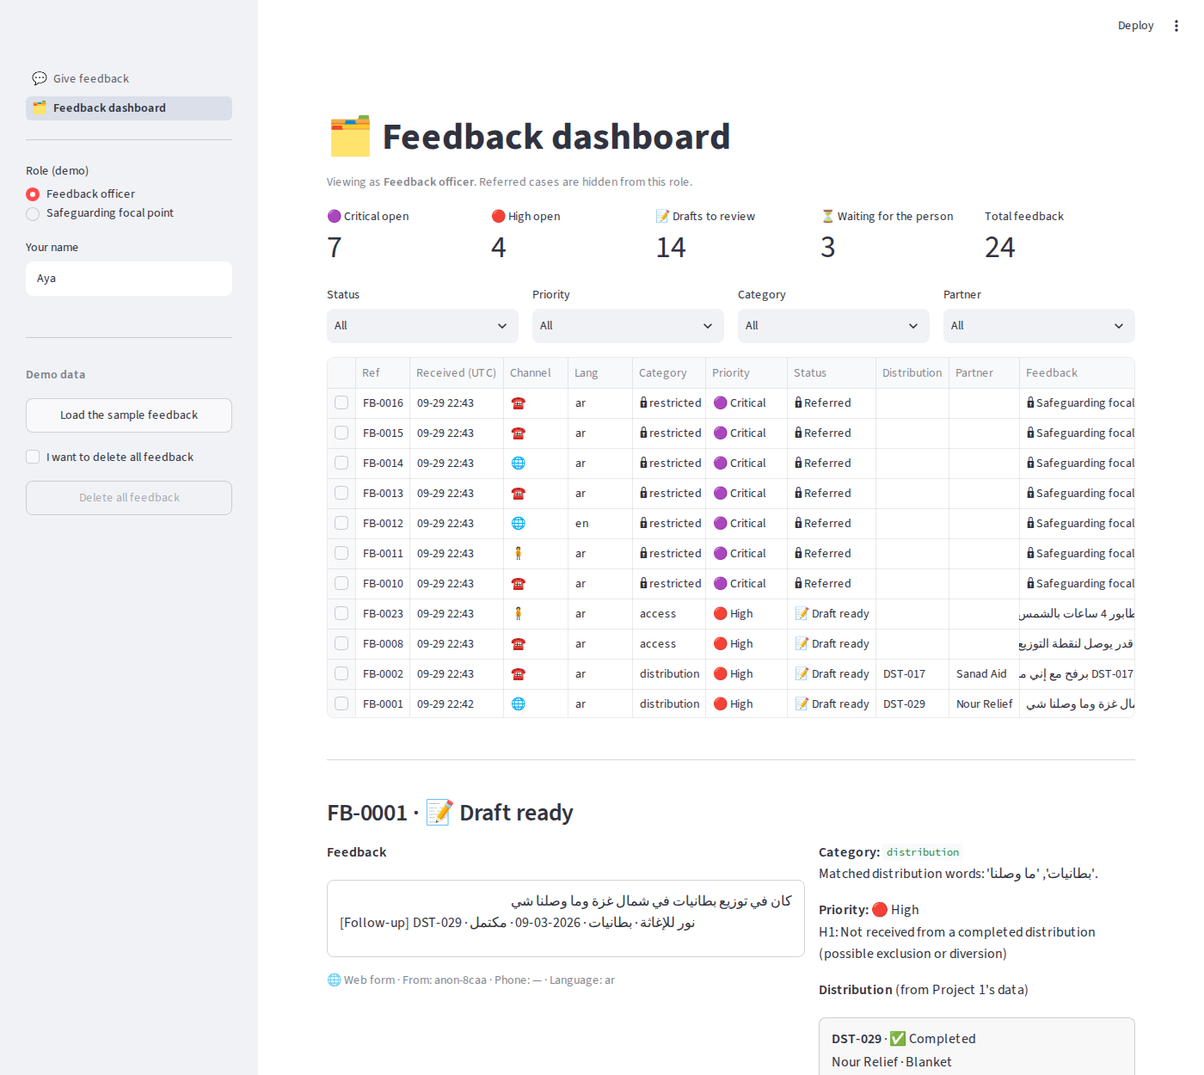
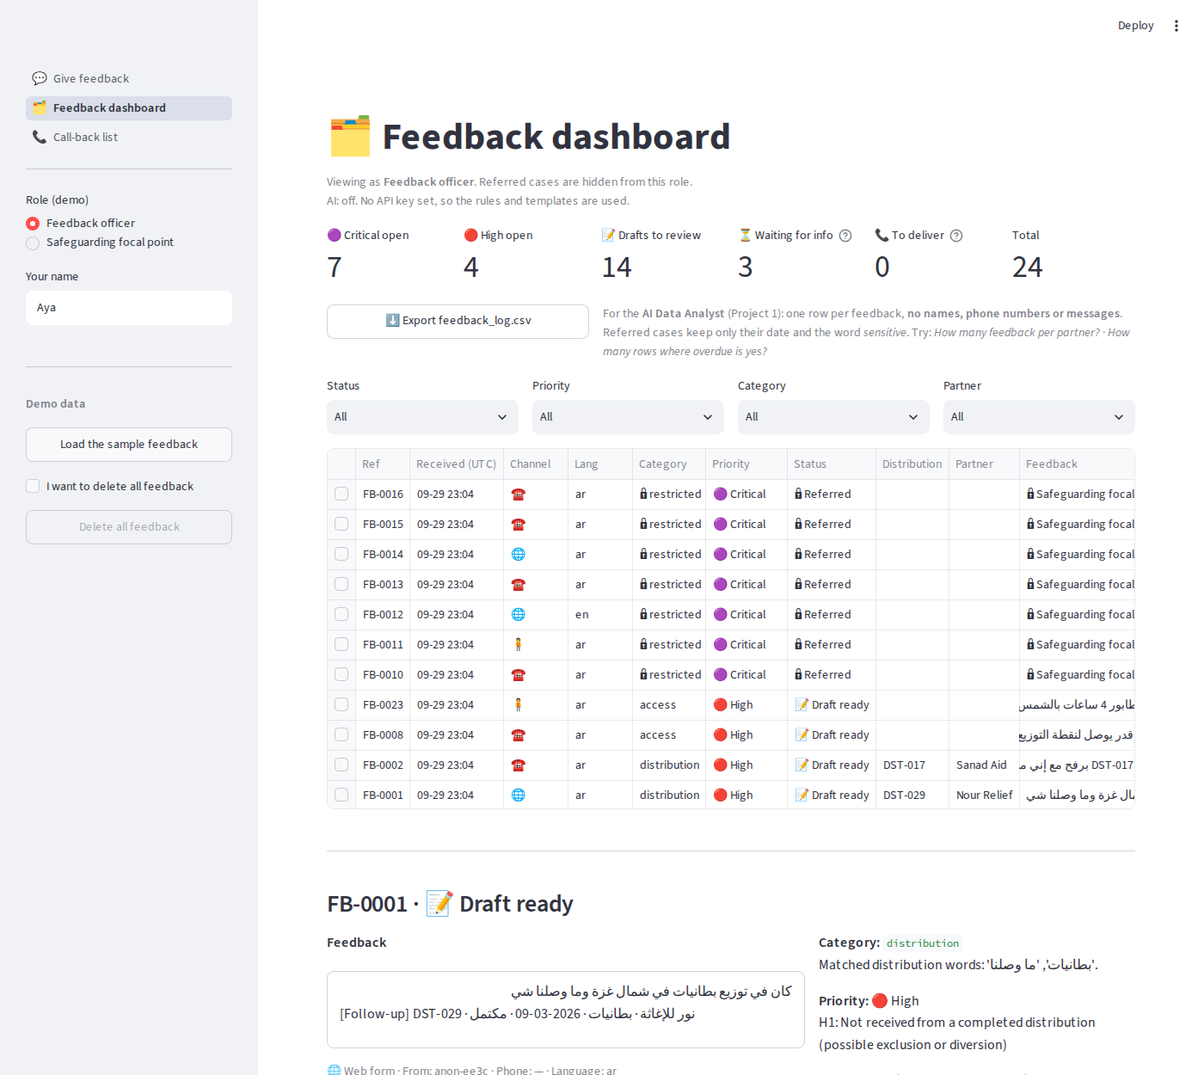
Docs: README, TEST_RESULTS, final screenshots, plan appendix
Claude-Session: https://claude.ai/code/session_01UVm6yuNLML38rM87E8FuEK

diff --git a/views/dashboard.py b/views/dashboard.py
@@ -56,9 +56,9 @@ m = st.columns(6)
 m[0].metric("🟣 Critical open", c["critical"])
 m[1].metric("🔴 High open", c["high"])
 m[2].metric("📝 Drafts to review", c["drafts"])
-m[3].metric("⏳ Waiting for the person", c["waiting"])
-m[4].metric("📞 Replies to deliver", c["to_deliver"], help="Approved, but the person has not heard the answer yet.")
-m[5].metric("Total feedback", c["total"])
+m[3].metric("⏳ Waiting for info", c["waiting"], help="Waiting for the person to answer our question.")
+m[4].metric("📞 To deliver", c["to_deliver"], help="Approved, but the person has not heard the answer yet.")
+m[5].metric("Total", c["total"])
 
 ex1, ex2 = st.columns([1, 2])
 ex1.download_button("⬇ Export feedback_log.csv", data=to_csv_bytes(build_export(conn)),

diff --git a/README.md b/README.md
@@ -1,5 +1,179 @@
-# AI Community Feedback Desk
+# 💬 AI Community Feedback Desk
 
-Work in progress. Continues [AI Data Analyst](https://github.com/Ayatalat0101/ai-data-analyst): community feedback about the same aid distributions, linked to each distribution, with sensitive cases routed to a confidential referral and a human approving every reply.
+**Community feedback about aid distributions, in Arabic and English: every complaint linked to its distribution, every sensitive report sent to a trained person, every reply approved by a human, and delivered.**
+Continues [AI Data Analyst](https://github.com/Ayatalat0101/ai-data-analyst) (Project 1): the same distributions, the same data file, and an anonymised export that Project 1 analyses.
 
-Design: [PROJECT_PLAN.md](PROJECT_PLAN.md) · Test messages: [data/sample_feedback.csv](data/sample_feedback.csv)
+![Python](https://img.shields.io/badge/Python-3.11%2B-3776AB?logo=python&logoColor=white)
+![Streamlit](https://img.shields.io/badge/Streamlit-app-FF4B4B?logo=streamlit&logoColor=white)
+![SQLite](https://img.shields.io/badge/SQLite-audit%20log-003B57?logo=sqlite&logoColor=white)
+![Gemini](https://img.shields.io/badge/LLM-Gemini%20%E2%86%92%20Groq%20%E2%86%92%20rules-2a78d6)
+![Tests](https://img.shields.io/badge/tests-302%20passing-2ea44f)
+
+> **Live demo:** _added after deployment (see [Deploy](#deploy-on-streamlit-community-cloud))._
+> Project B of the *AI Systems Building Challenge* · [خطة المشروع بالعربي](PROJECT_PLAN_AR.md)
+
+![Question with the real matching distributions as options](screenshots/01_question_with_options.png)
+
+---
+
+## The problem
+
+After aid distributions in Gaza, people call a hotline or stop a volunteer to say *"I didn't receive"*, *"the flour was spoiled"*, *"a staff member asked me for money"*. The feedback ends up in a WhatsApp group or a notebook. Nobody checks which distribution it concerns, urgent cases wait, and a report of sexual exploitation can be read by anyone on the team.
+
+**Example:** *"ما استلمت طرد الغذاء بتوزيع DST-017 برفح مع إني مسجل بالكشف"*. DST-017 is a **completed** Sanad Aid distribution, so this family may have been left off the list. That should be High priority, checked with Sanad Aid, and answered.
+
+*All organisations, people, phone numbers and messages in this project are fictional.*
+
+## How it continues Project 1
+
+```
+Project 1: aid_distributions.csv ──► AI Data Analyst ──► "households reached per partner"
+                   │
+                   ▼  lookup tool (status, partner, place, item)
+Project 2: feedback ──► AI Community Feedback Desk ──► feedback_log.csv ──► AI Data Analyst ──► "complaints per partner"
+```
+
+1. **The agent's tool reads Project 1's file.** "Blankets in North Gaza" → the 5 real matching distributions, offered as buttons. DST-099 → "we could not find it, please check the number". A cancelled distribution gets a reply that says so.
+2. **The export goes back into Project 1.** `feedback_log.csv` has one row per feedback and no personal data. The AI Data Analyst answers *"How many feedback per partner?"*, *"How many rows where overdue is yes?"*, *"count by delivered_via"*.
+
+![Project 1 analysing the feedback log exported by Project 2](screenshots/07_project1_analyses_feedback.png)
+
+## What it does
+
+| | |
+|---|---|
+| 💬 **Receives feedback** | Web form, hotline or in person (operators enter it for the person). Arabic, Gaza dialect or English. Name optional. |
+| 🔒 **Refers sensitive reports first** | Sexual exploitation (PSEA), bribes, threats, injuries, self-harm, requests for others' data → **Critical**, no AI draft, visible **only to the safeguarding focal point**, never sent to an AI service. |
+| 🗂 **Classifies** | distribution · information · conduct · access · appreciation, with the reason. Gemini, rules as fallback. |
+| 🔎 **Links the distribution** | A lookup tool over `aid_distributions.csv`. It never invents one: one match → linked; several → one question with options; none → asks. |
+| 🚦 **Prioritises by a written policy** | S1 Critical · H1 not received from a *completed* distribution · H2 access barrier for older people, people with disabilities, pregnant women, children · M1–M3 · L1. The AI never sets priority. |
+| 📝 **Drafts the reply** | In the language of the feedback, built on the distribution's real status. Checked: no promise of aid, no ID request, no other distribution number, right language. |
+| 👤 **Human approval** | Approve · edit · reject · refer · close, with an audit log. |
+| 📞 **Delivers the answer** | Call-back list for hotline operators, "Track my feedback" page, confidential contact for referred cases. `delivered` is a status of its own. |
+| 📤 **Exports for Project 1** | Anonymised `feedback_log.csv` with distribution status, days open, overdue and whether the reply was delivered. |
+
+## Who decides what
+
+| Decision | Made by | Why |
+|---|---|---|
+| Confidential referral | **Code first**; the LLM may only *add* one | A safeguarding decision cannot depend on a model that can be tricked, rate-limited or down |
+| Category | **Gemini** (structured output), rules as fallback | Meaning and dialect ("الكرتونة وصلت مبلولة") |
+| Which distribution | **Code: lookup tool** | A fact, not a guess |
+| Priority | **Code: written policy** | Must be explainable and testable |
+| Reply wording | **Gemini**, from approved content + real facts | Natural, respectful, no invented commitments |
+| Who can read a sensitive case | **Code: role check** in the agent | Confidentiality is a rule, not a screen setting |
+| The reply sent | **A person** | Accountability to affected people |
+
+```mermaid
+flowchart LR
+    F[Feedback<br/>web · hotline · in person] --> G{Safeguarding<br/>guardrail}
+    G -- sensitive --> R[Confidential referral<br/>Critical · restricted · no AI]
+    G -- safe --> C[Classify<br/>Gemini → Groq → rules]
+    C --> L[Lookup tool<br/>aid_distributions.csv]
+    L --> P[Priority<br/>written policy]
+    P --> M{Distribution clear?}
+    M -- no --> Q[One question + options]
+    Q --> L
+    M -- yes --> D[Draft · check_draft]
+    D --> H[Human review]
+    R --> FP[Focal point]
+    H --> DL[Delivered<br/>call · in person · online]
+    FP --> DL
+    DL --> X[feedback_log.csv → Project 1]
+```
+
+## Screenshots
+
+| Officer view: sensitive cases locked | Focal point view: the referral |
+|---|---|
+| ![](screenshots/02_officer_queue_restricted.png) | ![](screenshots/03_focal_point_view.png) |
+| **Draft with the distribution card from Project 1** | **Approved reply + audit log** |
+| ![](screenshots/04_draft_with_distribution.png) | ![](screenshots/05_approved_audit_log.png) |
+| **Call-back list: closing the loop** | **The person reads the reply** |
+| ![](screenshots/08_callback_list.png) | ![](screenshots/09_track_my_feedback.png) |
+
+## Results
+
+**302 automated tests**, all 15 acceptance tests from the plan, 11 defects found and fixed (plus one in Project 1). Details: [TEST_RESULTS.md](TEST_RESULTS.md).
+
+| | Rules, 23 samples | Rules, 14 **held-out** messages | Gemini |
+|---|---|---|---|
+| Category correct | 23/23 | 8/14 | run `python benchmark.py` |
+| Action correct | 23/23 | 11/14 | |
+| New sensitive wordings referred | — | 0/3 | |
+| Drafts passing the safety check | 13/13 | 13/13 | |
+
+The rules were written while looking at the 23 samples, so that score flatters them. The **holdout** was never used for tuning: it shows keyword rules miss new wordings, including three sensitive reports. That is the case for letting the LLM add referrals, and the number to watch when Gemini runs.
+
+## Run it locally
+
+Python 3.11+.
+
+```bash
+git clone https://github.com/Ayatalat0101/ai-community-feedback-desk.git
+cd ai-community-feedback-desk
+python -m venv .venv
+source .venv/Scripts/activate      # Windows Git Bash  (PowerShell: .venv\Scripts\activate · macOS/Linux: source .venv/bin/activate)
+pip install -r requirements.txt
+python -m pytest -q                # 302 passed
+streamlit run app.py
+```
+
+Works **without an API key** (rules + templates). To turn on Gemini:
+
+```bash
+python setup_key.py          # paste the key from aistudio.google.com/apikey
+python -m feedback.llm       # RESULT: OK ✅, or the exact reason the key was not found
+python benchmark.py          # fills the Gemini columns in BENCHMARK.md
+```
+
+Try it: **Give feedback** → *كان في توزيع بطانيات في شمال غزة وما وصلنا شي* and pick a distribution. **Feedback dashboard** → *Load the sample feedback*, switch the role in the sidebar. **Call-back list** → deliver a reply. **Export feedback_log.csv** → upload it to the [AI Data Analyst](https://github.com/Ayatalat0101/ai-data-analyst).
+
+## Deploy on Streamlit Community Cloud
+
+1. Push to GitHub.
+2. [share.streamlit.io](https://share.streamlit.io) → **Create app** → `Ayatalat0101/ai-community-feedback-desk`, branch `main`, file `app.py`.
+3. **Advanced settings → Secrets:** `GEMINI_API_KEY = "your-key"` (never commit it).
+4. Deploy and put the link in the *Live demo* line above.
+
+The public demo limits AI use to 20 messages per browser session. Data lives in SQLite on the app server and resets when the app restarts. The role switch in the sidebar is for the demo; a real deployment needs staff login.
+
+## Project structure
+
+```
+app.py                     entry point: three pages
+ui.py                      shared UI helpers (display only)
+views/give_feedback.py     give feedback + track my feedback
+views/dashboard.py         queue, review, roles, export
+views/callbacks.py         call-back list (delivering replies)
+feedback/models.py         contracts and fixed vocabularies
+feedback/store.py          SQLite + audit log + in-place upgrades
+feedback/text.py           Arabic normalisation, language detection
+feedback/guardrail.py      safeguarding referral, before any AI
+feedback/policy.py         written priority policy
+feedback/distributions.py  the agent's tool over Project 1's data
+feedback/classifier.py     rule classifier (fallback)
+feedback/drafter.py        status-aware templates + check_draft
+feedback/agent.py          the agent loop and staff actions
+feedback/llm.py            Gemini / Groq chain
+feedback/customer_view.py  what a person may see
+feedback/export.py         anonymised feedback_log.csv
+feedback/config.py         where the API key comes from
+setup_key.py · benchmark.py
+data/aid_distributions.csv   Project 1's data (unchanged)
+data/sample_feedback.csv     25 test messages with expected results
+data/holdout_feedback.csv    14 messages kept for honest evaluation
+tests/                       302 tests
+```
+
+## Limits
+
+- The guardrail is a list of patterns. It misses wordings it has never seen (0/3 on the holdout); the LLM flag is the second layer, and a trained person reviews every referral.
+- The vulnerability rule (H2) recognises words like "كبيرة بالسن" or "wheelchair", not ages written as numbers ("عمرها 80 سنة").
+- Replies are delivered by call-back, in person or on the Track page; there is no SMS gateway.
+- Demo only: no staff login, and SQLite on a free server. A real deployment needs authentication, a hosted database and a data-protection review.
+
+## Author
+
+**Aya Talat Samra** · [GitHub](https://github.com/Ayatalat0101) · MIT licence
+Plan written before code: [PROJECT_PLAN.md](PROJECT_PLAN.md) · [بالعربي](PROJECT_PLAN_AR.md)

diff --git a/TEST_RESULTS.md b/TEST_RESULTS.md
@@ -1,0 +1,84 @@
+# Test Results — AI Community Feedback Desk
+
+Expected behaviour was written in `PROJECT_PLAN.md §10` **before** coding, and every message in `data/sample_feedback.csv` carries its expected category, priority, action and distribution.
+Actual behaviour below was recorded from real runs of the agent (rules + templates, no API key) on 2026-09-30.
+
+**Summary:** 15 / 15 planned tests pass · **302 automated tests pass** (`python -m pytest -q`, about 4 seconds) · 11 defects found while building, all fixed and covered by a test · 1 defect found and fixed **in Project 1**.
+
+## 1. Planned acceptance tests (T1–T15)
+
+| ID | Input | Expected | Actual | Result |
+|---|---|---|---|---|
+| T1 | F01 "ما استلمت طرد الغذاء بتوزيع DST-017 برفح…" | DST-017 Completed · High (H1) · draft mentions checking the list with Sanad Aid | DST-017 · High · "H1: Not received from a completed distribution" · "…طلبنا من مؤسسة سند مراجعة كشف هذا التوزيع…" | ✅ |
+| T2 | F02 "كان في توزيع بطانيات في شمال غزة وما وصلنا شي" | ask, with the matching distributions as options | "يوجد 5 توزيعات مطابقة. أيّها تقصد؟" + DST-019, DST-029, DST-053, DST-055, DST-060 as buttons | ✅ |
+| T3 | T2, then the person picks DST-029 | same ticket, linked, draft | FB-0002 stays FB-0002 · DST-029 · High (H1: completed + not received) · draft ready | ✅ |
+| T4 | F05 DST-001 (Cancelled) | Medium (M1) · says cancelled, no promise | M1 · "Distribution DST-001 (Winter Kit, Khan Younis, planned for 2026-01-06) was cancelled, so it did not take place…" | ✅ |
+| T5 | F19 "ما استلمت من توزيع DST-099" | not found → ask to check | "لم نجد التوزيع DST-099. تأكد من الرقم…" · a corrected answer (DST-017, or place + item) continues the ticket | ✅ |
+| T6 | F09 bribe request | referred · Critical · no draft · restricted | referred · Critical · restricted · "Fraud or bribery (money or favours asked for aid)" · no draft | ✅ |
+| T7 | F10 / F11 PSEA (Arabic + English) | referred before any LLM call · hidden from officers | referred · "Possible sexual exploitation or abuse (PSEA)" · the fake LLM received 0 prompts · the officer sees only "🔒 Safeguarding focal point only"; officer actions raise an error | ✅ |
+| T8 | F13 neighbour's phone | referred · no data revealed | referred · "Asks for another person's personal data" | ✅ |
+| T9 | F07 wheelchair · F24 pregnancy | High by rule H2 | both High · "H2: Access barrier for an older person, a person with a disability, a pregnant woman or a child" | ✅ |
+| T10 | F04 / F20 information | Low · draft uses the pending distribution | F04 → DST-048 "التوزيع القادم المخطط لـطرد غذائي في دير البلح هو DST-048…" · F20 → DST-024 "…has not taken place yet" | ✅ |
+| T11 | blank / "hi" | no ticket · helpful message | no ticket · "Please describe what happened in a sentence or two. / اكتب ما حدث بجملة أو جملتين." | ✅ |
+| T12 | two submissions + restart | distinct references · persisted | FB-0001, FB-0002 · still there after reopening the database file · an older database is upgraded in place | ✅ |
+| T13 | approve / reject | approved · reason in audit log | `approved` · `needs_rework` with event detail "Mention the replacement process"; an empty reason is refused | ✅ |
+| T14 | export | no name, phone or message; sensitive rows = date + category; loads in Project 1 | 8 export tests pass · Project 1's AI Data Analyst loads `feedback_log.csv` and answers "How many feedback per partner?" (Sanad Aid 4, Nour Relief 4, Amal Foundation 1) | ✅ |
+| T15 | LLM unavailable | rules + templates still work | fake backend raising 503: category, distribution, priority and draft from rules; planner "rules (fallback: LLMUnavailable…)" | ✅ |
+
+## 2. Added during the build
+
+| Area | Tests | What they prove |
+|---|---|---|
+| Guardrail look-alikes | 8 | "طلبوا مني الهوية", "دفعت 20 شيكل مواصلات", "أنا بدي أعيش بكرامة", "Can I get extra food?" and 4 more are **not** referred |
+| Lookup tool | 9 | Places, partners and items in Arabic, dialect and English; a bare "غزة" is not guessed as Gaza City; the tool never returns a distribution that is not in the file |
+| Unsafe LLM drafts | 5 | A promise of aid, an ID request, another distribution number, a placeholder or the wrong language → replaced by the template, reason logged |
+| LLM limits | 3 | The LLM can add a referral; it cannot choose the distribution; it cannot mark a case sensitive by category |
+| Delivery | 18 | Approved ≠ delivered; call attempts logged; referred cases only by confidential contact; reading online counts once; referred replies never shown online |
+| Key setup | 7 | `secrets.toml.txt`, BOM, alias, `setup_key.py`, Git ignores every key file except the example |
+| Mutation checks | 12 runs | Each safety rule was disabled on purpose; every time at least one test failed (see §5) |
+
+## 3. Benchmark
+
+| | Rules on **samples** (23, rules written with them) | Rules on **holdout** (14 new wordings, not tuned) | Gemini |
+|---|---|---|---|
+| Category correct | 23/23 | 8/14 (57%) | run `python benchmark.py` with a key |
+| Priority correct | 23/23 | 7/14 (50%) | |
+| Action correct | 23/23 | 11/14 (79%) | |
+| New sensitive wordings referred | — | **0/3** (H10 bribe, H11 PSEA, H12 injury) | |
+| Distribution linked correctly | 7/7 | 4/4 | |
+| Drafts passing the safety check | 13/13 | 13/13 | |
+
+The holdout is the honest number: keyword rules do not generalise to new wording, and they miss sensitive cases written differently. That is why the LLM is allowed to **add** a referral (never remove one), and why the holdout was left untouched instead of tuning the rules to it. Full tables: [BENCHMARK.md](BENCHMARK.md).
+
+## 4. Defects found and fixed
+
+| # | Found by | Wrong behaviour | Root cause | Fix |
+|---|---|---|---|---|
+| D1 | Browser screenshot | Arabic sentences inside alerts were scrambled ("احتفظ به ،FB-0001 شكراً لك") | mixed right-to-left and left-to-right text without a direction | alerts, captions and buttons take the direction of their first letter |
+| D2 | Browser screenshot | The focal point saw "No complaint… words found" as the reason on a referred case | the rule classifier's reason was kept | referred cases show "Referred by the guardrail: …" (+ test) |
+| D3 | Browser screenshot | The Priority column was cut ("Critica") | default column width | fixed column widths |
+| D4 | Writing T5 | A person who corrected DST-099 without a number stayed stuck on DST-099 | the lookup re-read the old number from the message text | the id comes from the ticket field; a follow-up answer replaces or clears it (+ test) |
+| D5 | Mutation test | The test "officer loses access after referring" passed even with the role check removed | it failed for another reason (no reply text) | the test now checks the error message (+ re-run) |
+| D6 | Handoff test with Project 1 | `DST-099` would have been exported as a distribution | the export copied the ticket field | only ids that exist in `aid_distributions.csv` are exported |
+| D7 | Handoff test with Project 1 | Project 1 crashed loading the export | see D11 | `overdue` exported as yes/no (clearer for non-programmers too) |
+| D8 | Design review (stage 7) | An approved reply looked "done" although the person never heard it | no status after approval | `delivered` status, call-back list, `reply_delivered` in the export |
+| D9 | Design review (stage 7) | A referred case's reply could have appeared on a web page | the Track page showed any approved reply | referred cases show only "a trained person will contact you confidentially" (+ test) |
+| D10 | Design review (stage 7) | Adding a column would break an existing `feedback.db` | fixed schema | `connect()` adds missing columns in place (+ test with an old database) |
+| D11 | **Project 1** | The AI Data Analyst crashed on any CSV column mixing True/False and empty cells | `.str.strip()` on a non-text column | fixed in Project 1 with a regression test (commit "Fix: CSV columns mixing True/False…") |
+
+## 5. Mutation checks (a test suite that cannot fail is worthless)
+
+| Rule disabled on purpose | Tests that failed |
+|---|---|
+| Identity fields editable (phone) | 1 |
+| Restricted rows included in the officer list | 1 |
+| H1 no longer checks the distribution status | 5 |
+| PSEA pattern "قابلته لحالها" removed | 1 |
+| Role check in the agent removed | 2 (after tightening D5) |
+| Lookup picks the first match instead of asking | 5 |
+| Guardrail runs after the classifier | 1 |
+| Export includes referred rows in full | 1 |
+| Export keeps unknown distribution ids | 1 |
+| Referred reply shown on the Track page | 1 |
+| Reading online counted as delivery every time | 1 |
+| Project 1 loader without the fix | 1 |

diff --git a/PROJECT_PLAN_AR.md b/PROJECT_PLAN_AR.md
@@ -222,4 +222,17 @@ flowchart LR
 7. تابع ملاحظتك
 8. README، نتائج الاختبارات، الصور، النشر
 
+---
+
+## ملحق: ما تغيّر أثناء البناء
+
+الأقسام السابقة هي الخطة كما كُتبت قبل البرمجة. أُضيف أثناء البناء:
+
+- **إغلاق دائرة الملاحظات (المرحلة 7):** حالة `delivered` بعد `approved`، وصفحة **قائمة معاودة الاتصال** لموظفي الخط الساخن، وعمودا `reply_delivered` و `delivered_via` في التصدير. الرد المعتمد الذي لم يسمعه الشخص ليس رداً.
+- **تابع ملاحظتك:** بالرقم المرجعي + رقم الهاتف؛ والحالات المُحالة لا يظهر ردها على الإنترنت أبداً.
+- **تقييم بمجموعة مخفية:** `data/holdout_feedback.csv`، 14 رسالة جديدة لم تُستخدم لضبط القواعد. القواعد: 8 من 14 في الفئة، و 0 من 3 حالات حساسة بصياغة جديدة. ولهذا يُسمح للنموذج اللغوي بإضافة إحالة.
+- **تصليح في المشروع الأول:** تحميل ملف التصدير كشف تعطّل المحلل الذكي مع أعمدة True/False فيها خانات فارغة؛ صُلّح هناك مع اختبار.
+- **ترقية قاعدة البيانات في مكانها:** `connect()` تضيف الأعمدة الجديدة لملف `feedback.db` الموجود.
+- **إعداد المفتاح:** `setup_key.py` وشرح واضح عندما لا يُعثر على المفتاح (دروس من النسخة السابقة).
+
 </div>

diff --git a/PROJECT_PLAN.md b/PROJECT_PLAN.md
@@ -210,3 +210,16 @@ flowchart LR
 6. Gemini classifier + drafter with fallback → T15
 7. Track my feedback
 8. README, test results, screenshots, deploy
+
+---
+
+## Appendix: what changed during the build
+
+The sections above are the plan as written before coding. Added while building:
+
+- **Closing the loop (stage 7):** a `delivered` status after `approved`, a **Call-back list** page for hotline operators, and `reply_delivered` / `delivered_via` in the export. An approved reply the person never hears is not an answer.
+- **Track my feedback:** reference + phone number; referred cases never show their reply online.
+- **Held-out evaluation:** `data/holdout_feedback.csv`, 14 new messages never used to tune the rules. Rules: 8/14 categories, 0/3 new sensitive wordings. This is why the LLM may add referrals.
+- **Project 1 fix:** loading the export revealed a crash in the AI Data Analyst on True/False columns with blanks; fixed there with a regression test.
+- **Database upgrades in place:** `connect()` adds new columns to an existing `feedback.db`.
+- **Key setup:** `setup_key.py` and a plain explanation when no key is found (lessons from the previous version).
